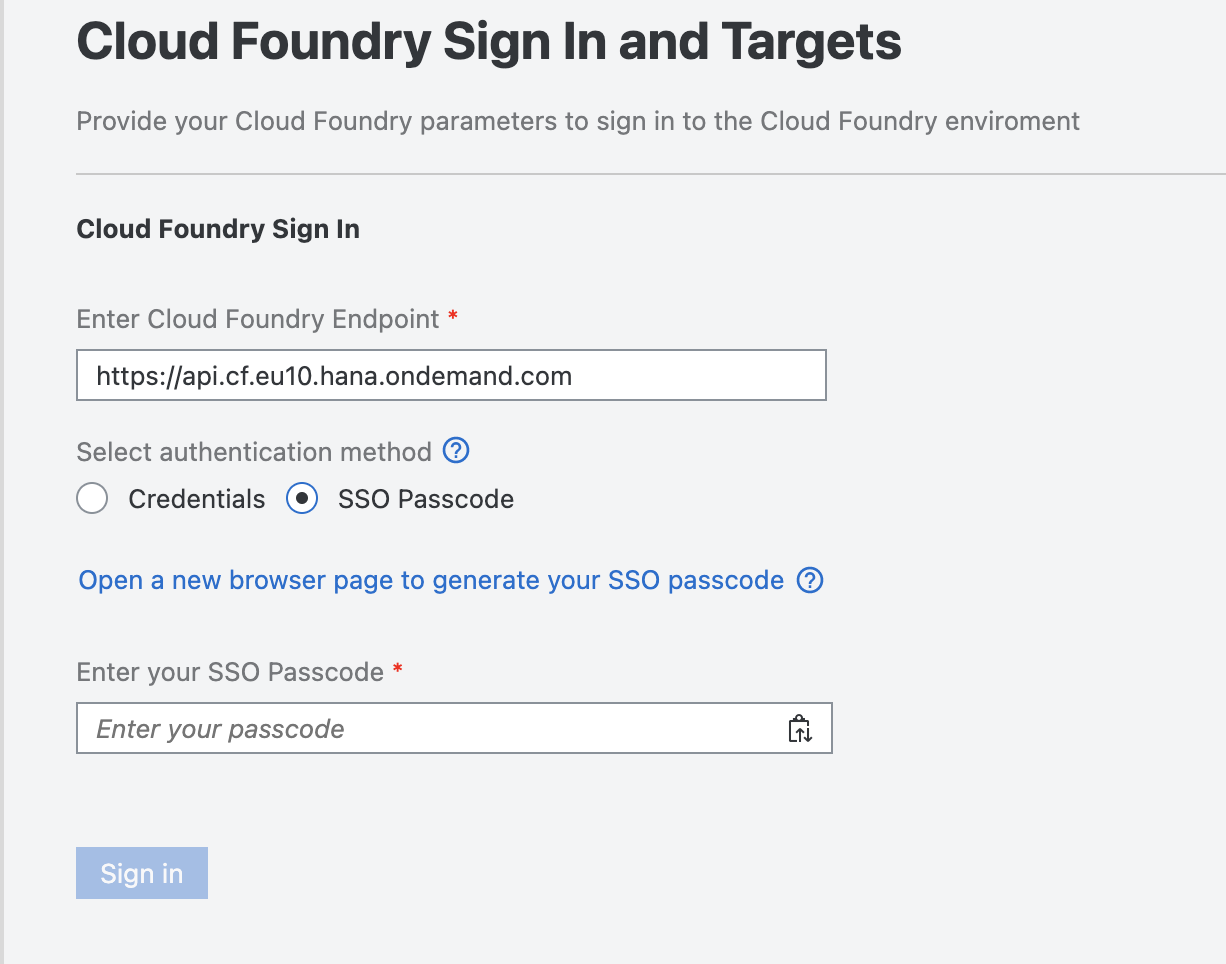
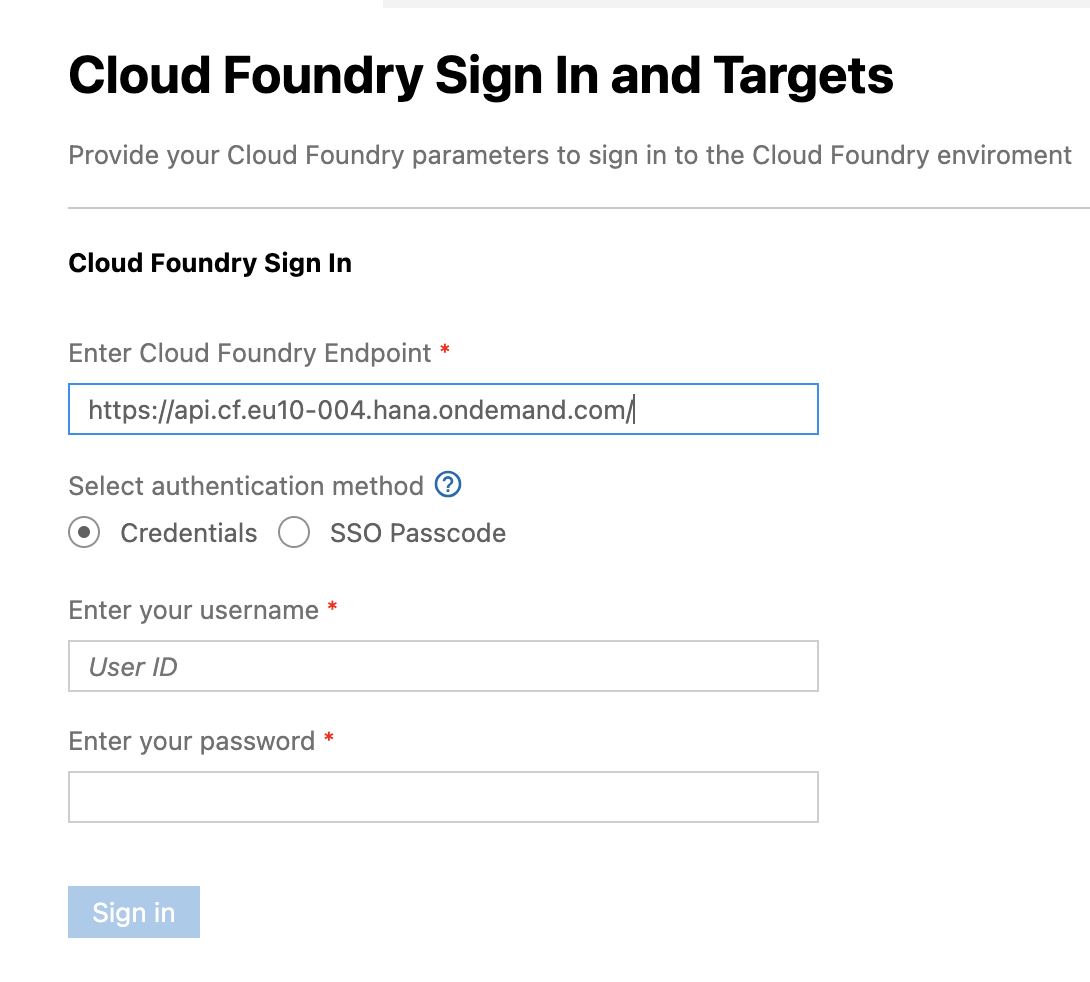
documents update

diff --git a/documentation/develop/consume-external-service/README.md b/documentation/develop/consume-external-service/README.md
@@ -14,11 +14,11 @@ In this section you will expand your application with an API, which allows to ge
 
 3. On the left side of your screen the menu **Service Center** will appear. Expand the section **SAP System** and find your **Subaccount** there.
 
-4. Then open the destination that you created in section earlier, for example, **bupa**.
+4. Then choose the destination **bupa**.
 
 5. On the bupa page, choose **A_BusinessPartner** in the list **Entity**.
 
-6. Choose **Add Data Model**.
+6. Choose **Add External Data Model**.
 
     <img src="././images/consume_external_service _A1.png" width="100%">
 
@@ -38,14 +38,14 @@ In this section you will expand your application with an API, which allows to ge
 
 12. In the list check only _BusinessPartner_, _BusinessPartnerFullName_ and _BusinessPartnerIsBlocked_.
 
-13. Choose the pencil icon behind your selected property and change the names:
+<!-- 13. Choose the pencil icon behind your selected property and change the names:
     - _BusinessPartner_ &rarr; _Supplier_
     - _BusinessPartnerFullName_ &rarr; _SupplierFullName_
-    - _BusinessPartnerIsBlocked_ &rarr;  _SupplierIsBlocked_
+    - _BusinessPartnerIsBlocked_ &rarr;  _SupplierIsBlocked_ -->
 
     <img src="././images/consume_external_service_A9.png" width="60%">
 
-10. Go back to the **Storyboard** page and find tile **Data Models**. Choose the entry **Risks**.
+10. Go back to the **Storyboard** page and find tile **Data Models**. Choose the entry **Risks** and select **open in Graphical Modeler**.
 
 11. Choose the icon to **Add Relationship** of the risk entity. Click on anywhere on screen to configure relationship.
 
@@ -58,15 +58,15 @@ In this section you will expand your application with an API, which allows to ge
     - **Property Name:** _supplier_
     - **Target Entity Type:** _bupa.A_BusinessPartner_
 
-13. Choose **Create**.
+13. Choose **Tick** icon.
 
-    <img src="././images/consume_external_service_A3.png" width="60%">
+    <img src="././images/consume_external_service _4.png" width="60%">
 
 ### Update UI Components
 
 1. Navigate to the **Storyboard** page of SAP Business Application Studio.
 
-2. Find the tile **User Interfaces** and choose the entry **Risks**.
+2. Find the tile **User Interfaces** and choose the entry **Risks** and Open in Page Map.
 
 3. Find the entry **List Report** and choose the icon to edit.
 

diff --git a/documentation/develop/deploy-application/README.md b/documentation/develop/deploy-application/README.md
@@ -19,7 +19,7 @@ In this section, you will deploy the application to Cloud Foundry environment.
    <img src="././images/deploy_1.png" width="80%">
 
 4. Log in to your account:
-   - Provide API endpoint to your account
+   - Provide API endpoint (**https://api.cf.eu10-004.hana.ondemand.com/**) to your account
    - Select authentication method 'SSO Passcode'
    - Click on the link 'open a new browser page to generate your SSO passcode'
    - Enter SSO passcode 
@@ -37,6 +37,8 @@ In this section, you will deploy the application to Cloud Foundry environment.
 ### Assign Role Collection
 
 Before you can use the application, you need to assign yourself to the roles you have created in the section before. This needs to be done so you are able to edit and view the data from the application.
+
+ - This is a global setup so you are not allowed to assign user roles on BTP. Therefore please contact the organisation team(**Dominic Steinhauser** and **Matthias Adams**) to perform the below steps.
 
 1. Go back to [SAP BTP Cockpit](https://account.hana.ondemand.com/).
 

diff --git a/documentation/develop/integrate-with-workzone/README.md b/documentation/develop/integrate-with-workzone/README.md
@@ -12,7 +12,7 @@ In this section, the application will be connected with SAP Build Work Zone, sta
 
 2. Search for the application **SAP Build Work Zone, standard edition** and choose the icon to open it.
 
-3. In the menu on the left side choose the icon for **Provider Manager**.
+3. In the menu on the left side choose the icon for **Channel Manager**.
 
 4. Choose the refresh icon to fetch the updated content.
 
